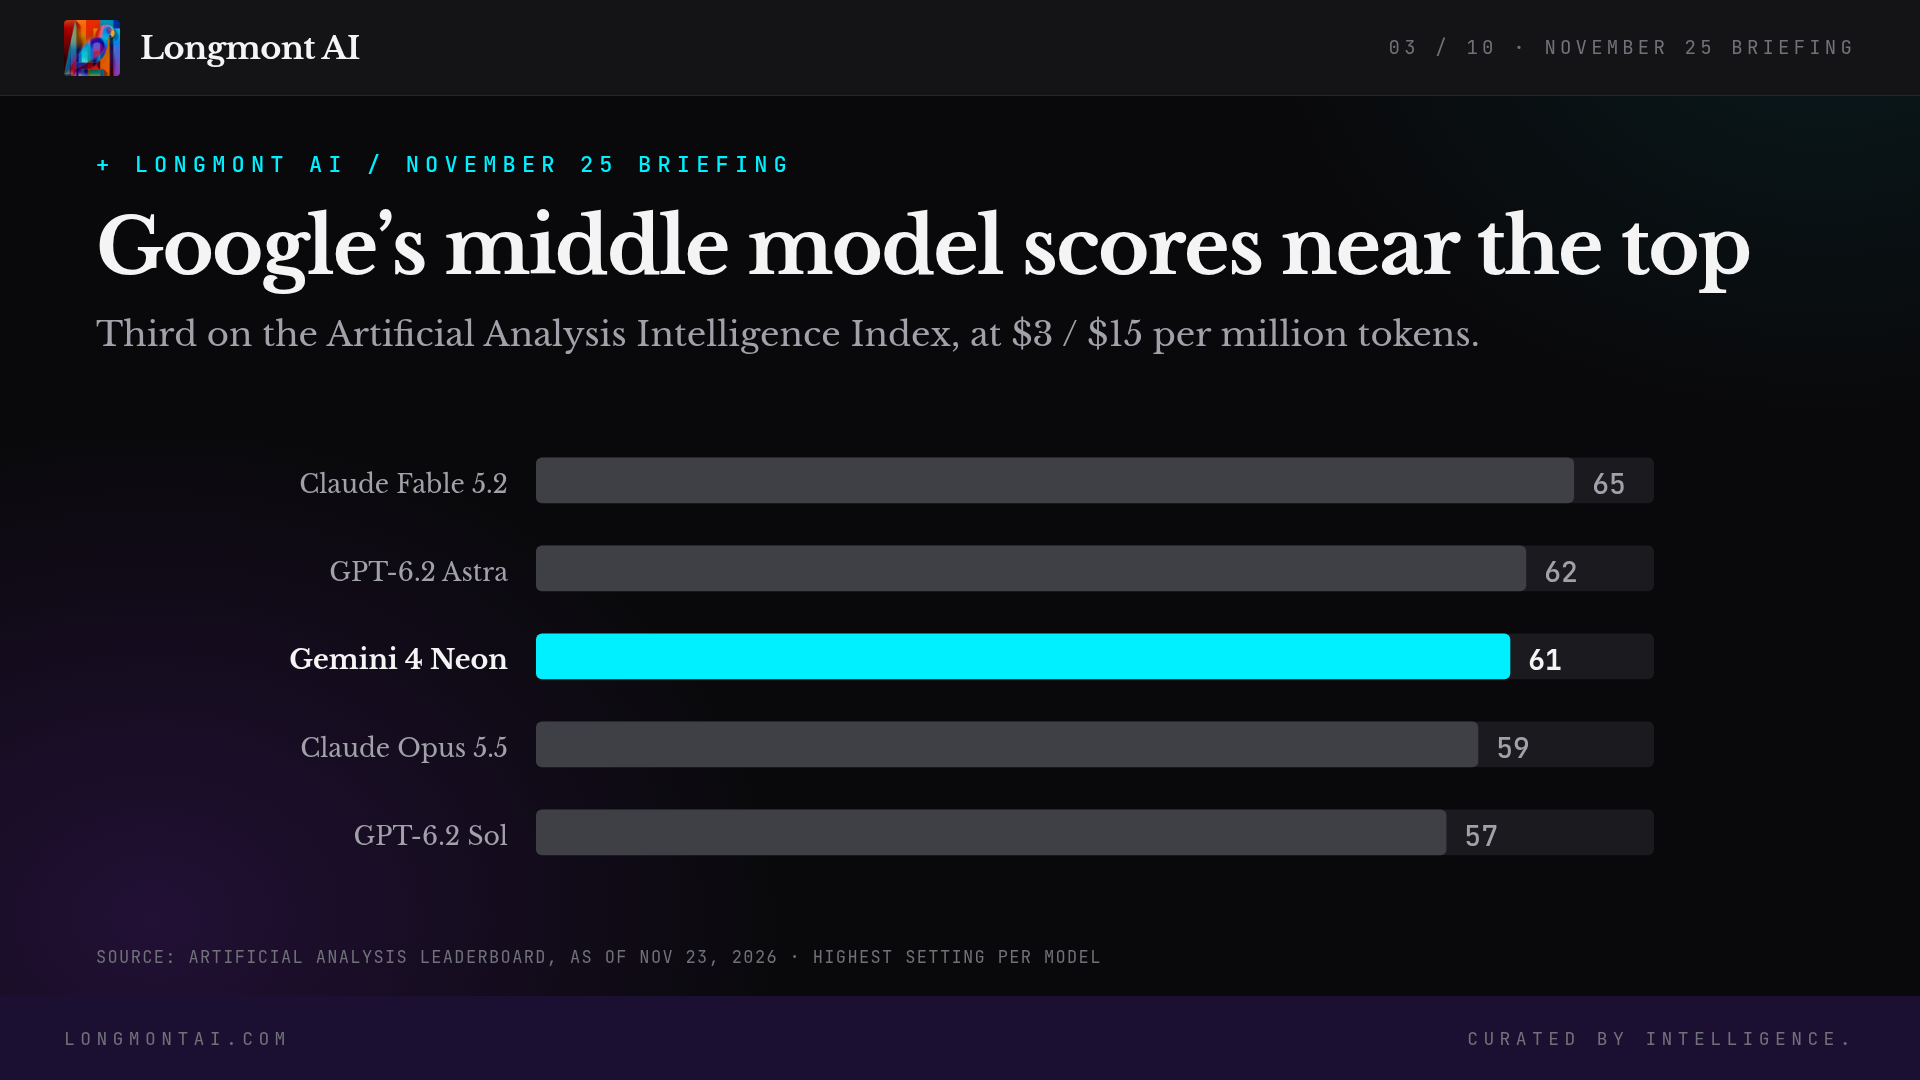
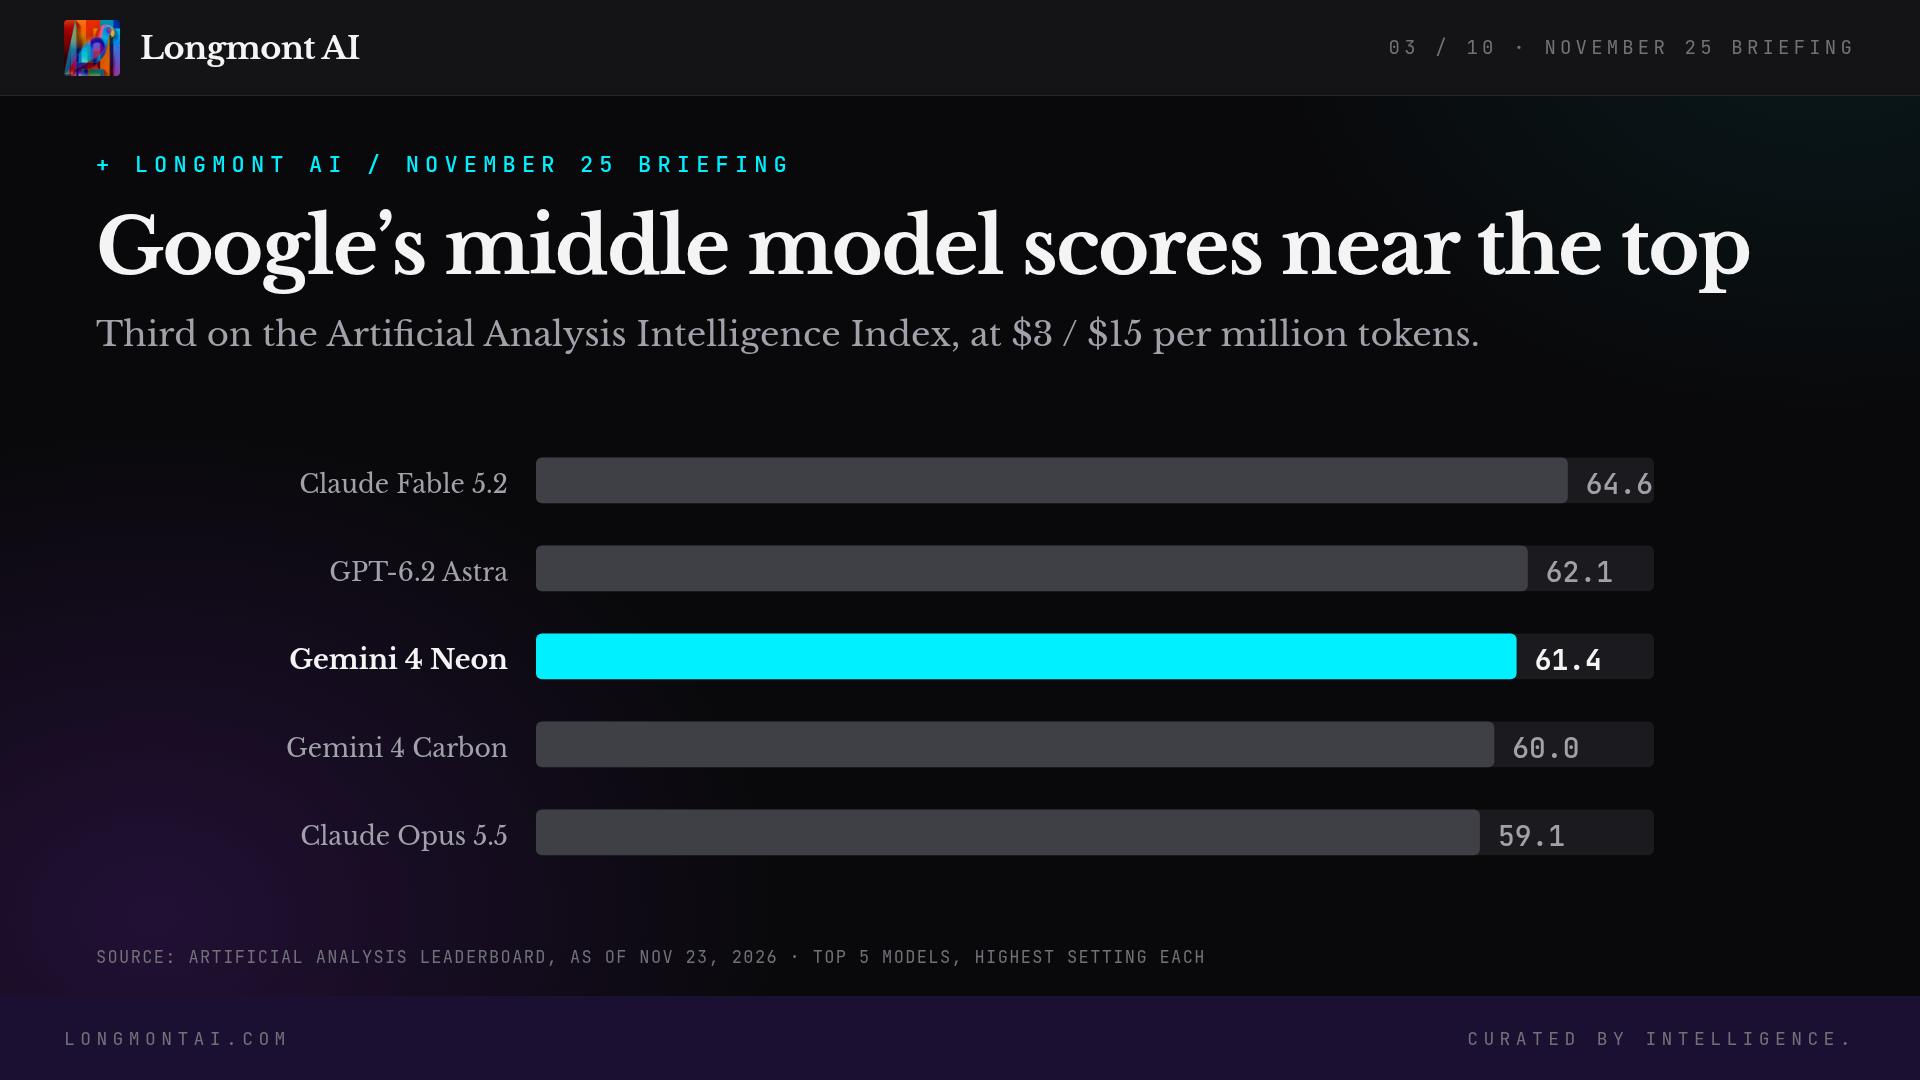
fix(edition-2026-11-25): show the true Artificial Analysis top five
Slide 03 now shows the Artificial Analysis Intelligence Index top five as of
Nov 23 (Fable 5.2 64.6, GPT-6.2 Astra 62.1, Gemini 4 Neon 61.4, Gemini 4
Carbon 60.0, Claude Opus 5.5 59.1) with one decimal; GPT-6.2 Sol (57.3) drops
off that chart. Article text, alt text and the emailDigest Neon line match.
Slide 09 France/Netherlands labels are spread apart for phone widths.
Still scheduled; publishAt 2026-11-25T11:30:00-07:00 unchanged.

diff --git a/src/articles/drafts/2026.11.25-chatbot-to-teammate.md b/src/articles/drafts/2026.11.25-chatbot-to-teammate.md
@@ -78,9 +78,9 @@ If an AI hands you finished work, ask it what went wrong along the way, and chec
 
 ## Google's middle model scores near the top
 
-![Bar chart in Longmont AI style: Artificial Analysis Intelligence Index, highest setting per model, as of November 23. Claude Fable 5.2 65, GPT-6.2 Astra 62, Gemini 4 Neon 61 (highlighted, third), Claude Opus 5.5 59, GPT-6.2 Sol 57.](/weekly-screenshots/2026.11.25/slide-03-gemini-neon.png)
+![Bar chart in Longmont AI style: Artificial Analysis Intelligence Index, top five models at their highest setting, as of November 23. Claude Fable 5.2 64.6, GPT-6.2 Astra 62.1, Gemini 4 Neon 61.4 (highlighted, third), Gemini 4 Carbon 60.0, Claude Opus 5.5 59.1.](/weekly-screenshots/2026.11.25/slide-03-gemini-neon.png)
 
-Gemini 4 Neon is Google's middle model, priced at $3 per million input tokens and $15 per million output tokens. Google says it scores 61 on the Artificial Analysis Intelligence Index at its highest thinking setting, third overall and "just behind larger, slower models," and that at its default setting it costs 32% less per task than Gemini 4 Carbon ([Google](https://blog.google/innovation-and-ai/models-and-research/gemini-models/introducing-gemini-4-neon/)). The two models ahead of it on the [Artificial Analysis leaderboard](https://artificialanalysis.ai/leaderboards/models), as of November 23, are Claude Fable 5.2 (65) and GPT-6.2 Astra (62).
+Gemini 4 Neon is Google's middle model, priced at $3 per million input tokens and $15 per million output tokens. Google says it scores 61 on the Artificial Analysis Intelligence Index at its highest thinking setting, third overall and "just behind larger, slower models," and that at its default setting it costs 32% less per task than Gemini 4 Carbon ([Google](https://blog.google/innovation-and-ai/models-and-research/gemini-models/introducing-gemini-4-neon/)). The two models ahead of it on the [Artificial Analysis leaderboard](https://artificialanalysis.ai/leaderboards/models), as of November 23, are Claude Fable 5.2 (64.6) and GPT-6.2 Astra (62.1). Google's own Gemini 4 Carbon (60.0) and Claude Opus 5.5 (59.1) round out the top five.
 
 Here is Google's own comparison table. Rival scores are as Google reported them, and Google says it used each rival's highest available reasoning setting ([Google DeepMind methodology](https://deepmind.google/models/evals-methodology/gemini-4-neon)).
 
